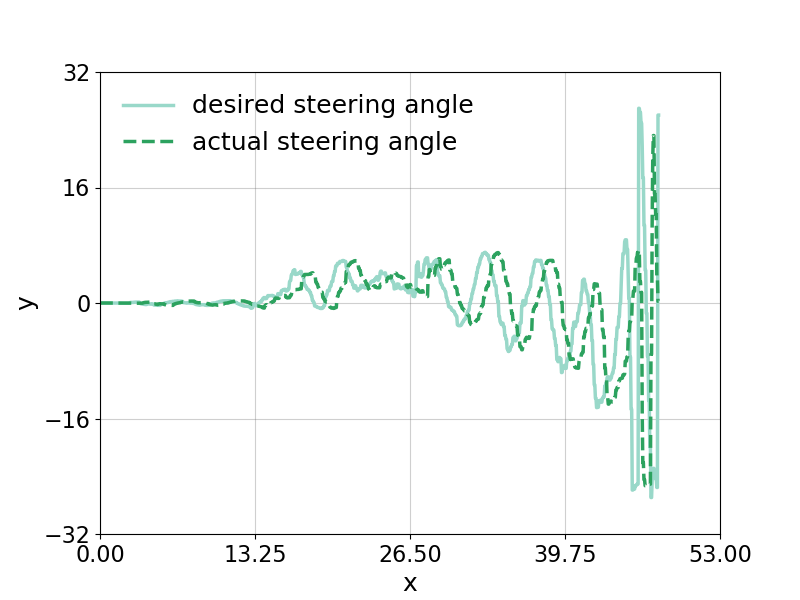
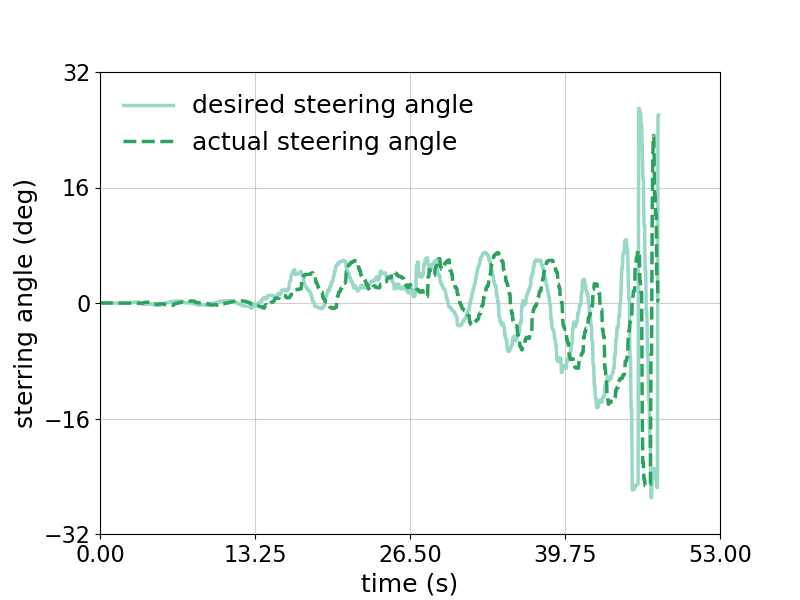
Python version #4: refine steering angle labels.

Changed region(s): [[0.0, 0.42, 0.0625, 0.72], [0.0, 0.3, 0.0625, 0.39], [0.4375, 0.96, 0.5938, 0.99]]

diff --git a/src/python/fig_plot/fig_plot.py b/src/python/fig_plot/fig_plot.py
@@ -149,8 +149,8 @@ for data in dataset:
     plt.yticks(np.linspace(y_min_scale, y_max_scale, 5))
 
     ## legend setting
-    plt.xlabel('x')
-    plt.ylabel('y')
+    plt.xlabel('time (s)')
+    plt.ylabel('sterring angle (deg)')
     # plt.title('steering angle')
     plt.legend(loc='best', frameon=False, ncol=1)
 
